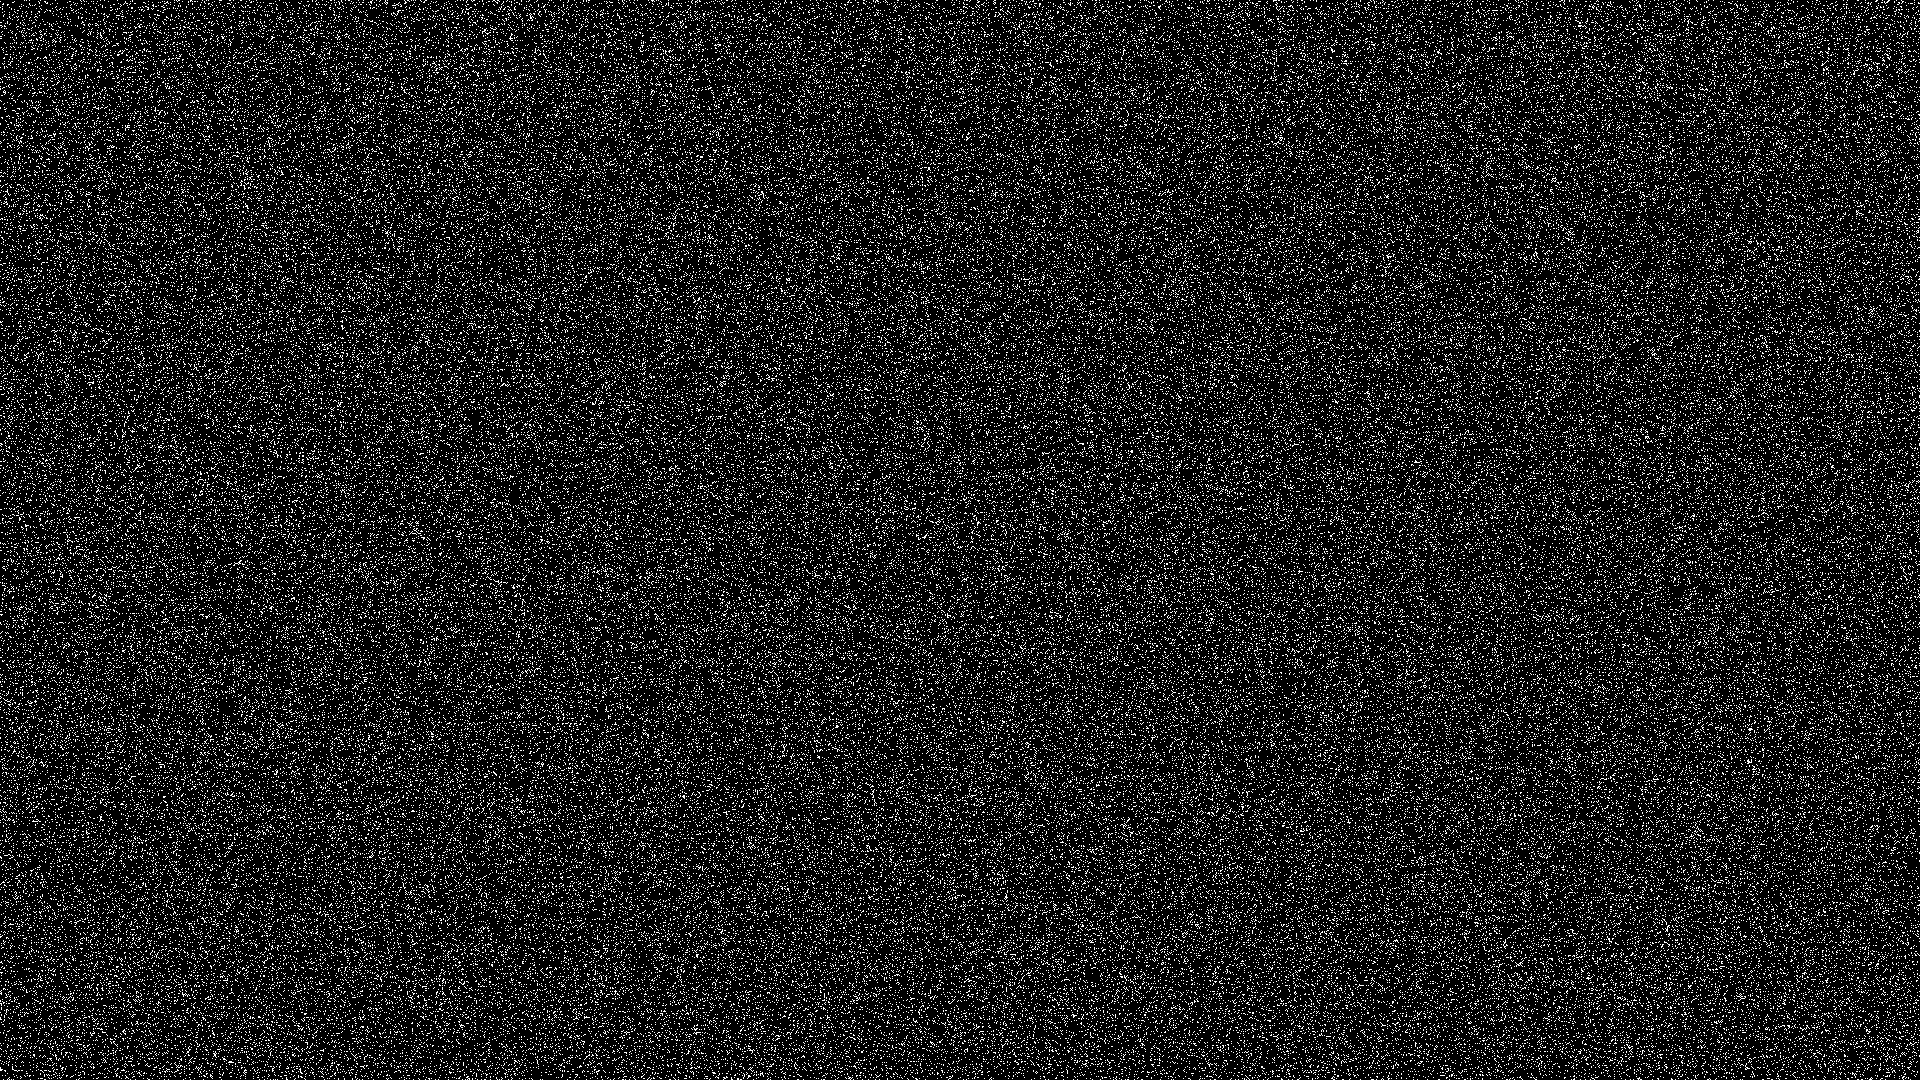
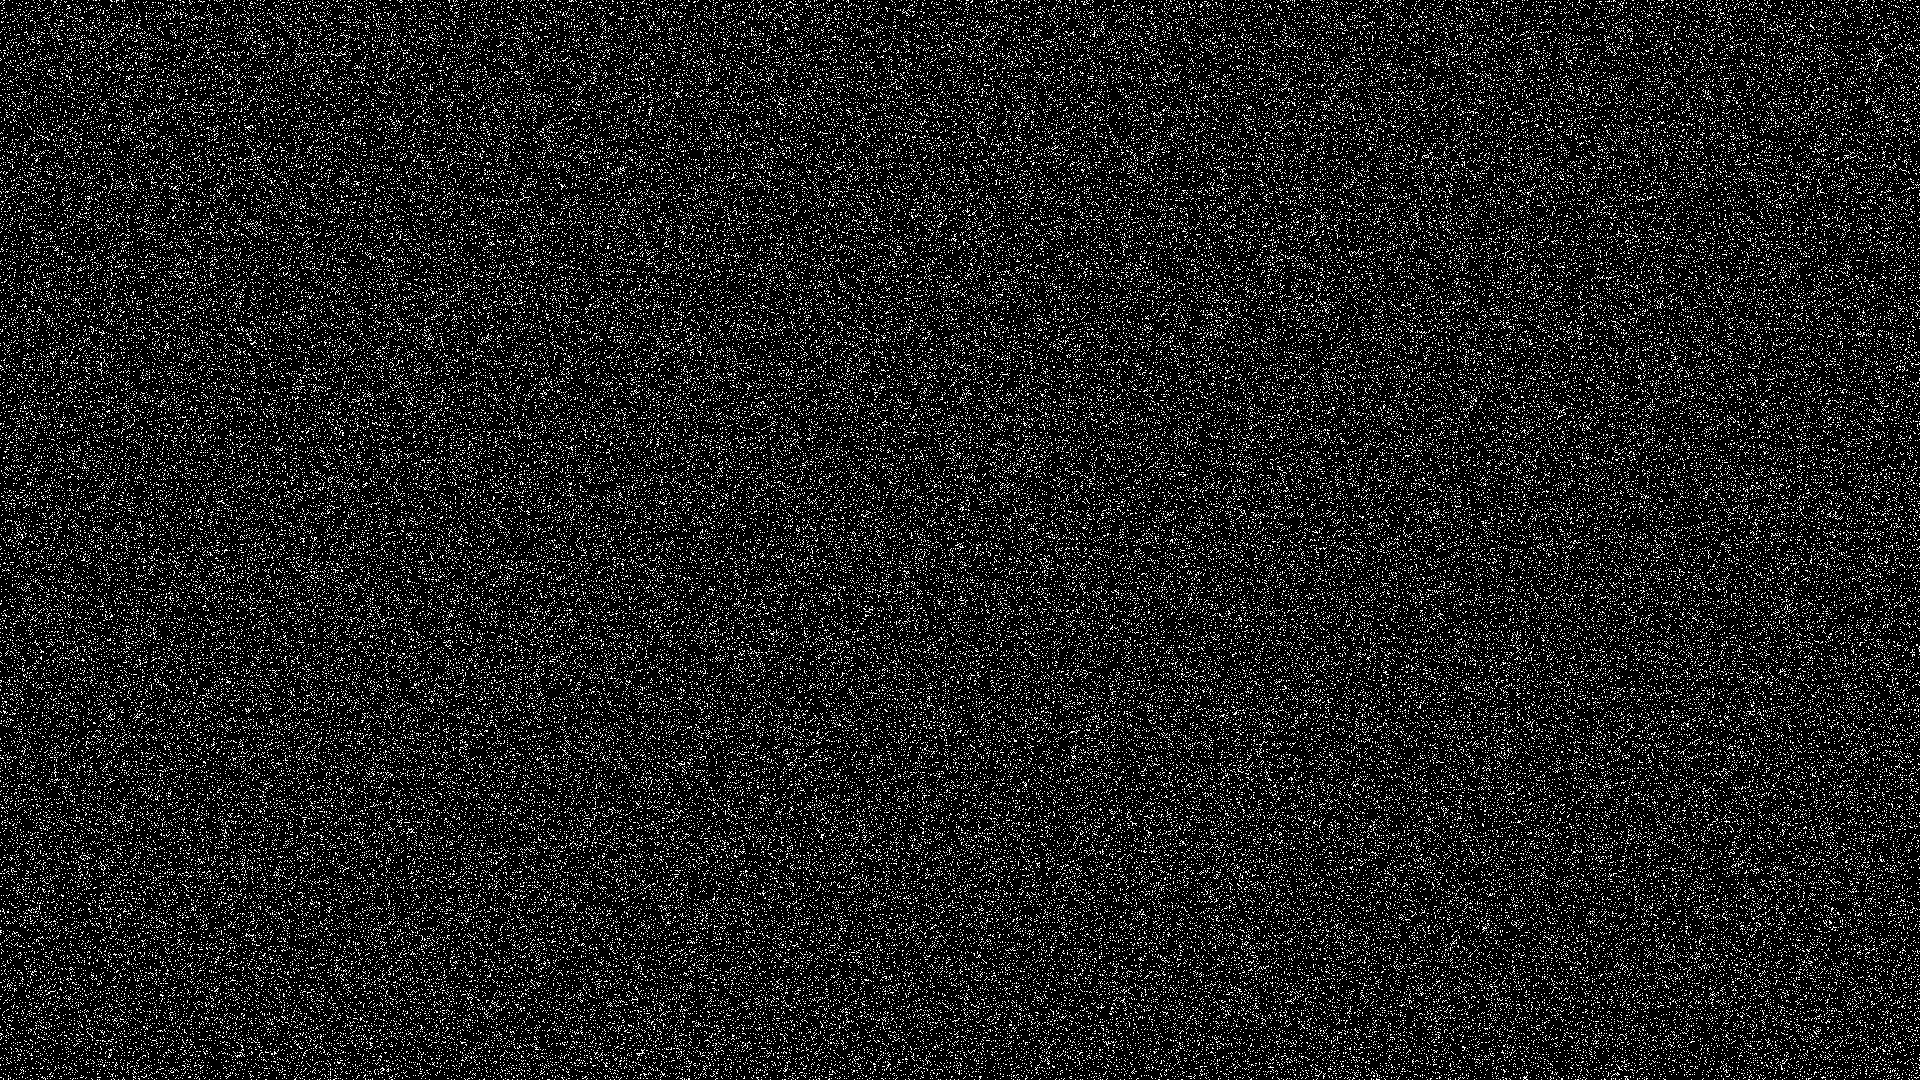
add code to automatically count camera and fix output path in the turbuCam

Changed region(s): [[0.0, 0.0, 1.0, 1.0]]

diff --git a/process_turbuCam.py b/process_turbuCam.py
@@ -42,7 +42,8 @@ save_fits_cube = False       # save full cube as FITS file - takes time!
 show_animation = False       # show results as an animation
 refresh_delay = 0.05         # seconds between frames (e.g. 0.2 = 5 FPS)
 os.makedirs(output_folder, exist_ok=True)
-Ncams = 5
+Ncams = len(glob.glob(os.path.join(input_folder, "render_ref_*.tif")))
+print(f"Found {Ncams} cameras...")
 
 for k in range(0,Ncams):
 
@@ -52,7 +53,7 @@ for k in range(0,Ncams):
     # ------------------------------
     files = sorted(glob.glob(os.path.join(input_folder, '*'+ext)))
     if len(files) < 2:
-        raise ValueError("Need at least 2 images in the folder!")
+        raise ValueError("Need at least 2 images for this camera in the folder!")
 
     print(f"Found {len(files)} files.")
 
@@ -96,5 +97,5 @@ for k in range(0,Ncams):
     u, v = flow[..., 0], flow[..., 1] # Displacement in X and Y direction
     phase = reconstruct_from_gradient(u, v)
 
-    np.save('output_folder/cam'+str(k)+'_phase.npy',phase)
+    np.save(os.path.join(output_folder,'cam'+str(k)+'_phase.npy'),phase)
     

diff --git a/turbulence_pattern_generator.py b/turbulence_pattern_generator.py
@@ -69,7 +69,7 @@ f *= 0.5
 # --------------------------------------------------
 # Save as 32-bit floating-point TIFF
 # --------------------------------------------------
-output_file = "data/turbulence_screen.tiff"
+output_file = "data/turbulence_screen1.tiff"
 
 tiff.imwrite(output_file, f.astype(np.float32))
 